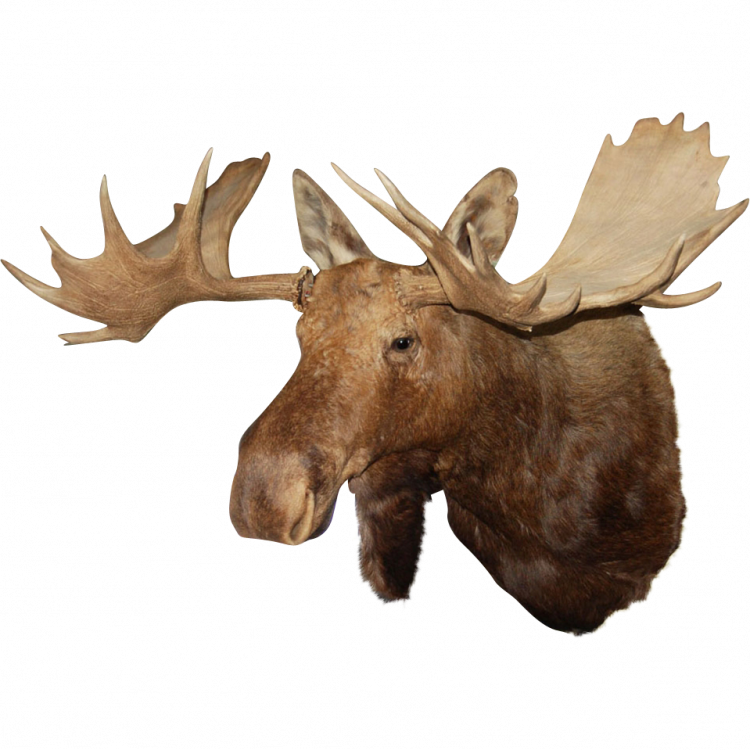
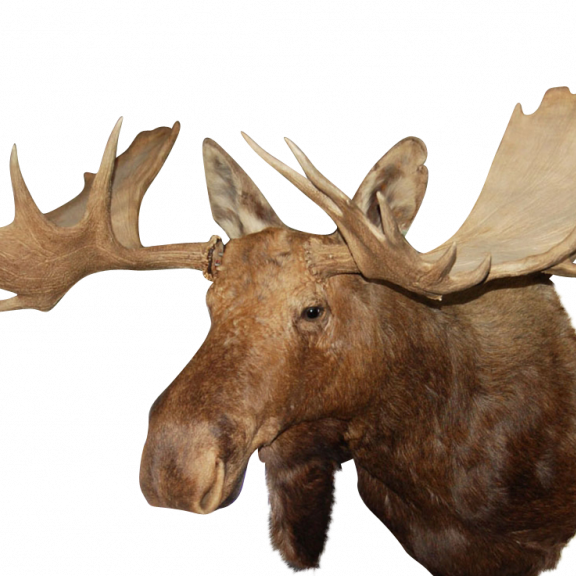
Lotsa stuff. Mostly finished Tynamic Duo section

diff --git a/index.html b/index.html
@@ -18,12 +18,13 @@
     </head>
     <body>
         <nav id='navigation-bar' class='navbar navbar-expand-lg w-100 p-0'>
-            <img src='images/logo-black.png' id='navbar-logo' class='img-fluid mx-auto d-block' />
+            <img src='images/logo-black-min.png' id='navbar-logo' class='img-fluid mx-auto d-block' />
         </nav>
             
+        <!-- Splash Screen Section -->
         <div class='hero-section-container'>
             <div class='container d-flex hero-section'>
-                <img id='hero-section-headshot' src='images/palin-intro.png' class='img-fluid mr-auto align-self-end'/>
+                <img id='hero-section-headshot' src='images/palin-intro2-min.png' class='img-fluid mr-auto align-self-end'/>
                 <div class='col-md-5 d-none d-lg-block align-self-center'>
                     <div class='card donate-card'>
                         <div class='card-body'>
@@ -36,13 +37,35 @@
             </div>
         </div>
 
+        <!-- Tynamic Duo Section -->
+        <div class='container-fluid p-0 d-flex duo-bios-container'>
+            <div class='container d-flex duo-bios-header-container'>
+                <h1 class='display-3 content-title'>MEET THE TYNAMIC DUO</h1>
+            </div>
+            <div class='d-flex' style='justify-content: center; flex: 1; position: relative;'>
+                <img src='images/Sarah Palin-15-min.png' class='d-none d-xl-block half-portrait half-portrait-left' />
+                <div class='duo-bios d-flex' style='z-index: 10; flex-flow: column;'>
+                    <div class='card'>
+                        <div class='card-body'>
+                            <h1 class='card-title'>Meet Sarah Palin</h3>
+                            <p class="card-text">"I got my start in Alaska. I was a governor. I helped people. It was good. I want to be President. 
+                                I want to help people. I like America because it is great. I want to be a lot. Thank you."</p>
+                        </div>
+                    </div>
+                    <div class='card text-right' style='margin-left: auto;'>
+                        <div class='card-body'>
+                            <h1 class='card-title'>Meet Moose</h3>
+                            <p class="card-text">"Just a moose. Like, a regular moose."</p>
+                        </div>
+                    </div>
+                </div>
+                <img src='images/moose-half-copy-min.png' class='d-none d-xl-block half-portrait half-portrait-right' />
+            </div>
+        </div>
+
         <!-- Important Issues Section -->
         <div class='container hero-section-content'>
-            <div class='row'>
-                <div class='col-md-10'>
-                    <h1 class='content-title'>VERY EXTREMELY IMPORTANT ISSUES</h1>
-                </div>
-            </div>
+            <h1 class='display-3 content-title'>VERY EXTREMELY IMPORTANT ISSUES</h1>
         
             <div id="demo" class="carousel slide mx-auto" data-ride="carousel" data-interval="false">
                 <ul class="carousel-indicators">
@@ -50,37 +73,37 @@
                     <li data-target="#demo" data-slide-to="1"></li>
                     <li data-target="#demo" data-slide-to="2"></li>
                 </ul>
-                
+
                 <div class="carousel-inner">
                     <div class="carousel-item active">
                         <div class='row justify-content-lg-center'>
                             <div class='col-lg-5'>
-                                <img src='images/palin-headshot-copy.png' class='carousel-headshot mx-auto d-block'/>
-                                <h2 class='carousel-issue-title'>Global Warming</h2>
-                                <p class='carousel-issue-body'>Of course global warming exists. Instead of trying to “stop it” or ‘save our children’, let’s go all
+                                <img src='images/palin-headshot-copy-min.png' class='carousel-headshot mx-auto d-block'/>
+                                <h1 class='carousel-issue-title'>Global Warming</h1>
+                                <p class='carousel-issue-body'>"Of course global warming exists. Instead of trying to ‘stop it’ or ‘save our children’, let’s go all
                                     in on warming the planet. I always get a bit chilly anywhere north of Kansas. Imagine a nice
-                                    margarita at Christmas time. Yes please!</p>
+                                    margarita at Christmas time. Yes please!"</p>
                             </div>
                             <div class='col-lg-5'>
-                                <img src='images/moose-headshot.png' class='carousel-headshot mx-auto d-block'/>
-                                <h2 class='carousel-issue-title'>Global Warming</h2>
-                                <p class='carousel-issue-body'>Global warming exists as a natural product of the circonian redaction effect, a natural worldly phenomenon. 
-                                    Our focus should be on privatizing a healthier planet through the American intellect versus getting our government involved to slow down our progress.</p>
+                                <img src='images/moose-headshot-min.png' class='carousel-headshot mx-auto d-block'/>
+                                <h1 class='carousel-issue-title'>Global Warming</h1>
+                                <p class='carousel-issue-body'>"Global warming exists as a natural product of the circonian redaction effect, a natural worldly phenomenon. 
+                                    Our focus should be on privatizing a healthier planet through the American intellect versus getting our government involved to slow down our progress."</p>
                             </div>
                         </div>
                     </div>
                     <div class="carousel-item">
                         <div class='row justify-content-lg-center'>
                             <div class='col-lg-5'>
-                                <img src='images/palin-headshot-copy.png' class='carousel-headshot mx-auto d-block'/>
-                                <h2 class='carousel-issue-title'>Taxes</h2>
-                                <p class='carousel-issue-body'>None. Next issue! This is fun. </p>
+                                <img src='images/palin-headshot-copy-min.png' class='carousel-headshot mx-auto d-block'/>
+                                <h1 class='carousel-issue-title'>Taxes</h1>
+                                <p class='carousel-issue-body'>"None. Next issue! This is fun."</p>
                             </div>
                             <div class='col-lg-5'>
-                                <img src='images/moose-headshot.png' class='carousel-headshot mx-auto d-block'/>
-                                <h2 class='carousel-issue-title'>Taxes</h2>
-                                <p class='carousel-issue-body'>We need a more nuanced and refined approach to Reagnomics, one that involves empathy and compassion. 
-                                    I believe Regan was right on principle, but his execution is where the American people felt frustrated. We’ll fix that. 
+                                <img src='images/moose-headshot-min.png' class='carousel-headshot mx-auto d-block'/>
+                                <h1 class='carousel-issue-title'>Taxes</h1>
+                                <p class='carousel-issue-body'>"We need a more nuanced and refined approach to Reagnomics, one that involves empathy and compassion. 
+                                    I believe Regan was right on principle, but his execution is where the American people felt frustrated. We’ll fix that."
                                 </p>
                             </div>
                         </div>
@@ -88,28 +111,28 @@
                     <div class="carousel-item">
                         <div class='row justify-content-lg-center'>
                             <div class='col-lg-5'>
-                                <img src='images/palin-headshot-copy.png' class='carousel-headshot mx-auto d-block'/>
-                                <h2 class='carousel-issue-title'>Trade</h2>
-                                <p class='carousel-issue-body'>Okie, well we all know that the bad men in China took all our jobs! What the heckity heck? 
+                                <img src='images/palin-headshot-copy-min.png' class='carousel-headshot mx-auto d-block'/>
+                                <h1 class='carousel-issue-title'>Trade</h1>
+                                <p class='carousel-issue-body'>"Okie, well we all know that the bad men in China took all our jobs! What the heckity heck? 
                                     We have to go get new jobs for all my friends out back here in America.
-                                    They’ll be fine on rice, I tell you and no wranglin’ with Mama Palin on that.</p>
+                                    They’ll be fine on rice, I tell you and no wranglin’ with Mama Palin on that."</p>
                             </div>
                             <div class='col-lg-5'>
-                                <img src='images/moose-headshot.png' class='carousel-headshot mx-auto d-block'/>
-                                <h2 class='carousel-issue-title'>Trade</h2>
-                                <p class='carousel-issue-body'>The writing on the wall is clear. The U.S. export economy has a 3.2 trillion lean density barrier imposed by a reverse consumer index. 
+                                <img src='images/moose-headshot-min.png' class='carousel-headshot mx-auto d-block'/>
+                                <h1 class='carousel-issue-title'>Trade</h1>
+                                <p class='carousel-issue-body'>"The writing on the wall is clear. The U.S. export economy has a 3.2 trillion lean density barrier imposed by a reverse consumer index. 
                                     We counter act this by putting money directly into the hands of local exporters. 
-                                    Simply put, we need to get tough on China</p>
+                                    Simply put, we need to get tough on China"</p>
                             </div>
                         </div>
                     </div>
                 </div>
                 
                 <a class="carousel-control-prev" href="#demo" data-slide="prev">
-                    <span class="carousel-control-prev-icon"></span>
+                    <span class="prev-icon arrow"></span>
                 </a>
                 <a class="carousel-control-next" href="#demo" data-slide="next">
-                    <span class="carousel-control-next-icon"></span>
+                    <span class="next-icon arrow"></span>
                 </a>
             </div>
         </div>

diff --git a/css/style.css b/css/style.css
@@ -1,5 +1,7 @@
 :root {
     --palin-red: #ED1C24;
+    --pastel-red: #d35050;
+    --pastel-blue: #6281c6;
     --navbar-height: 120px;
 }
 
@@ -11,6 +13,16 @@
 @font-face {
     font-family: carson;
     src: url(../fonts/carson-font/Carson-wVRx.ttf);
+}
+
+@media(max-width: 1200px) {
+    html {
+        font-size: 0.7rem;
+    }
+
+    .content-title {
+
+    }
 }
 
 #navigation-bar {
@@ -32,12 +44,10 @@
 .hero-section {
     height: calc(100vh - var(--navbar-height));
     min-height: 800px;
-    /* max-width: 60%; */
 }
 
 #hero-section-headshot {
-    margin-top: 300px;
-    height: 1000px;
+    height: 820px;
     width: auto;
 }
 
@@ -46,30 +56,87 @@
 }
 
 .hero-section-content {
-    height: 100vh;
+    min-height: 98vh;
+    flex-flow: column;
+}
+
+.hero-section-blue {
+    background-color: var(--pastel-blue);
+    color: white;
 }
 
 .content-title {
     margin-top: 20px;
-    font-size: 4.4em;
+    font-family: arial;
+    display: inline-block;
+    flex: 0 0 auto;
+    max-width: 100%;
 }
 
 .content-title:after {
     content: "";
-    position: absolute;
-    width: 97%;
-    height: 0px;
+    display: block;
+    width: 100%;
     bottom: 0;
-    left: 1.4%;
-    border-bottom: 0.1em solid var(--palin-red);
+    border-bottom: 0.07em solid var(--palin-red);
+    margin-top: -10px;
 }
+
+/* Tynamic Duo Section */
+
+.duo-bios-container {
+    flex-flow: column; 
+    min-height: 98vh; 
+    background-color: #6281c6; 
+    color: white;
+}
+
+.duo-bios-header-container {
+    justify-content: center;
+}
+
+.duo-bios {
+    margin: 0 17% 0 17%;
+    width: 100%;
+    font-size: 2rem;
+    justify-content: space-around;
+}
+
+.duo-bios .card {
+    color: white;
+    border: 1px red;
+    max-width: 600px;
+    background-color: transparent;
+    
+}
+
+.duo-bios:nth-child(1) {
+    width: 10px;
+}
+
+.half-portrait {
+    max-height: 100%;
+    position: absolute;
+    /* bottom: 0; */
+}
+
+.half-portrait-left {
+    left: 0;
+}
+
+.half-portrait-right {
+    right: 0;
+}
+
+/* Important Issues Section */
 
 .carousel {
     margin-top: 50px;
     min-height: 600px;
 
-    background-color: #e0e0e0;
-    border: 1px black solid;
+    background-color: white;
+    border: 1px grey solid;
+    border-radius: 4px;
 
     -webkit-box-shadow: 0px 4px 15px 0px rgba(0,0,0,0.75);
     -moz-box-shadow: 0px 4px 15px 0px rgba(0,0,0,0.75);
@@ -77,16 +144,16 @@
 }
 
 .arrow {
-    height: 20px;
-    width: 20px;
+    height: 50px;
+    width: 50px;
 }
 
 .prev-icon {
-    background-image: url("../images/iconfinder_icon-ios7-arrow-back_211686.png");
+    background-image: url("../images/prev-arrow.svg");
 }
 
 .next-icon {
-    background-image: url("../images/iconfinder_icon-ios7-arrow-forward_211688.png");
+    background-image: url("../images/next-arrow.svg");
 }
 
 .carousel-control-prev, .carousel-control-next {
@@ -97,5 +164,15 @@
     margin: 40px 0px 40px 0px;
     max-height: 250px;
     border-radius: 50%;
-    background-color: white;
+    background-color: var(--pastel-red);
 }
+
+.carousel-indicators li {
+    background-color: black;
+}
+
+.carousel-indicators li.active {
+    background-color: var(--palin-red);
+}
+
+/***********************************/
